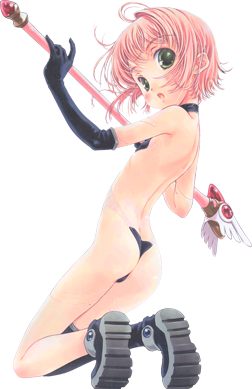
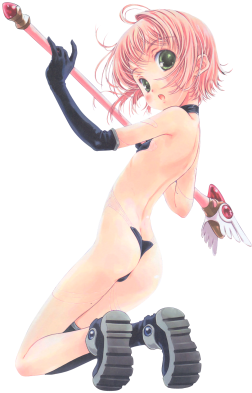
Fixed naughty Sakura's dirty little foot

diff --git a/main.css b/main.css
@@ -1,7 +1,7 @@
 /*
 AppChan by Zixaphir, seaweed !Ponyo.2wFe, MayhemYDG, !K.WeEabo0o, disappoint, Kupaka, ubuntufriend, anonymous
 
-Revision 65
+Revision 66
 
 This text is free. It comes without any warranty, to
 the extent permitted by applicable law. You can redistribute it
@@ -62,7 +62,7 @@ Some more risque alternatives. ;)
 	Horo - http://i.imgur.com/6f8wd.png
 	Horo 2 - http://i.imgur.com/KJLui.png
 	Ika Musume - http://i.imgur.com/PeckP.png
-	Kinomoto Sakura - http://i.imgur.com/C7OuW.png
+	Kinomoto Sakura - http://i.imgur.com/Rdk9s.png
 	Yuki Nagato - http://i.imgur.com/2BUww.png
 */
 	}
